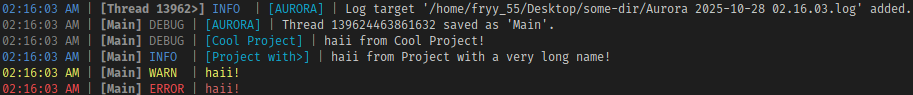
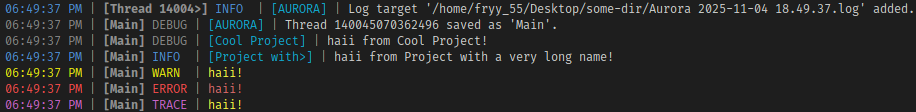
Add a custom logging level (v1.1.0)

Changed region(s): [[0.0, 0.0211, 1.0, 0.8421], [0.0, 0.8632, 0.276, 1.0]]

diff --git a/include/aurora/log.hpp b/include/aurora/log.hpp
@@ -2,8 +2,8 @@
 
 #include <aurora/singletons/TargetManager.hpp>
 
-#include <iostream>
 #include <print>
+#include <iostream>
 #include <regex>
 #include <fstream>
 
@@ -127,6 +127,8 @@ private:
 // Logging functions
 private:
 	using LogStates = std::pair<bool, bool>;
+	static LogStates statesForLevel(LogLevel logLevel) noexcept;
+	#define IMPL_CHECK_STATES(_logLevel) if (auto states = statesForLevel((_logLevel)); states.first || states.second)
 
 public:
 	/**
@@ -136,16 +138,9 @@ public:
 	 * @param args Args to format with. Should match the number of fields in @p formatString
 	 */
 	template <typename ...Args>
-	static void debug(std::format_string<Args...> formatString, Args&&... args) noexcept {
-		LogStates states{};
-
-		if (s_logLevel == LogLevel::Debug)
-			states.first = true;
-		if (s_fileLogLevel == LogLevel::Debug)
-			states.second = true;
-
-		if (states.first || states.second)
-			log_impl(states, LogLevel::Debug, formatString, std::forward<Args>(args)...);
+	static void debug(std::format_string<Args...> const& formatString, Args&&... args) noexcept {
+		IMPL_CHECK_STATES(LogLevel::Debug)
+			log_impl(std::nullopt, states, LogLevel::Debug, formatString, std::forward<Args>(args)...);
 
 		return;
 	}
@@ -156,16 +151,9 @@ public:
 	 * @param args Args to format with. Should match the number of fields in @p formatString
 	 */
 	template <typename ...Args>
-	static void info(std::format_string<Args...> formatString, Args&&... args) noexcept {
-		LogStates states{};
-
-		if (s_logLevel == LogLevel::Debug || s_logLevel == LogLevel::Info)
-			states.first = true;
-		if (s_fileLogLevel == LogLevel::Debug || s_fileLogLevel == LogLevel::Info)
-			states.second = true;
-
-		if (states.first || states.second)
-			log_impl(states, LogLevel::Info, formatString, std::forward<Args>(args)...);
+	static void info(std::format_string<Args...> const& formatString, Args&&... args) noexcept {
+		IMPL_CHECK_STATES(LogLevel::Info)
+			log_impl(std::nullopt, states, LogLevel::Info, formatString, std::forward<Args>(args)...);
 
 		return;
 	}
@@ -176,16 +164,9 @@ public:
 	 * @param args Args to format with. Should match the number of fields in @p formatString
 	 */
 	template <typename ...Args>
-	static void warn(std::format_string<Args...> formatString, Args&&... args) noexcept {
-		LogStates states{};
-
-		if (s_logLevel != LogLevel::Error)
-			states.first = true;
-		if (s_fileLogLevel != LogLevel::Error)
-			states.second = true;
-
-		if (states.first || states.second)
-			log_impl(states, LogLevel::Warn, formatString, std::forward<Args>(args)...);
+	static void warn(std::format_string<Args...> const& formatString, Args&&... args) noexcept {
+		IMPL_CHECK_STATES(LogLevel::Warn)
+			log_impl(std::nullopt, states, LogLevel::Warn, formatString, std::forward<Args>(args)...);
 
 		return;
 	}
@@ -196,21 +177,78 @@ public:
 	 * @param args Args to format with. Should match the number of fields in @p formatString
 	 */
 	template <typename ...Args>
-	static void error(std::format_string<Args...> formatString, Args&&... args) noexcept {
-		log_impl({ true, true }, LogLevel::Error, formatString, std::forward<Args>(args)...);
+	static void error(std::format_string<Args...> const& formatString, Args&&... args) noexcept {
+		IMPL_CHECK_STATES(LogLevel::Error)
+			log_impl(std::nullopt, states, LogLevel::Error, formatString, std::forward<Args>(args)...);
+
+		return;
+	}
+
+	/**
+	 * @brief A configuration structure for customizing a log level
+	 * 
+	 */
+	struct CustomLogLevelConfig final {
+		using ANSITag = std::variant<LogLevel, std::string_view>;
+
+		/**
+		 * @brief Log level, which this log should follow
+		 *
+		 * @details For example, setting this to `LogLevel::Info` will log only when info logs are logged
+		 * 
+		 */
+		LogLevel logLevel;
+		/**
+		 * @brief The name of a custom log level (e.g. `TRACE`)
+		 *
+		 * @details Should preferably be 5 characters long for alignment with other levels, however this is not a hard limitation at all
+		 * 
+		 */
+		std::string_view logLevelName;
+		/**
+		 * @brief Head ANSI tag of the log that should be printed
+		 *
+		 * @details Can be either an enum of @ref aurora::log::LogLevel or a custom ANSI tag.
+		 * Custom tag strings are @em not parsed, so it can, in fact, be anything
+		 * 
+		 */
+		ANSITag headTag;
+		/**
+		 * @brief Body ANSI tag of the log that should be printed
+		 *
+		 * @details Can be either an enum of @ref aurora::log::LogLevel or a custom ANSI tag.
+		 * Custom tag strings are @em not parsed, so it can, in fact, be anything
+		 * 
+		 */
+		ANSITag bodyTag;
+	};
+	/**
+	 * @brief Logs at the custom level
+	 * 
+	 * @param config Config of the logging level (@see aurora::log::CustomLogLevelConfig)
+	 * @param formatString String to format against (e.g. `"Hello, my name is {}"`)
+	 * @param args Args to format with. Should match the number of fields in @p formatString
+	 */
+	template <typename ...Args>
+	static void custom(CustomLogLevelConfig const& config, std::format_string<Args...> const& formatString, Args&&... args) noexcept {
+		IMPL_CHECK_STATES(config.logLevel)
+			log_impl(config, states, LogLevel::Error, formatString, std::forward<Args>(args)...);
 
 		return;
 	}
 
 private:
+	using ConfigOpt = std::optional<std::reference_wrapper<CustomLogLevelConfig const>>;
 	template <typename ...Args>
 	static void log_impl(
+		ConfigOpt const& customConfig,
 		LogStates const& states,
 		LogLevel logLevel,
-		std::format_string<Args...> formatString,
+		std::format_string<Args...> const& formatString,
 		Args&&... args
 	) noexcept {
 		auto string = logString(
+			customConfig,
 			logLevel,
 			std::format(formatString, std::forward<Args>(args)...)
 		);
@@ -233,6 +271,7 @@ private:
 	}
 
 	static std::string logString(
+		ConfigOpt const& customConfig,
 		LogLevel logLevel,
 		std::string&& formattedBody
 	) noexcept;

diff --git a/src/log.cpp b/src/log.cpp
@@ -18,32 +18,80 @@ std::uint8_t log::s_maxSourceLength = 12u;
 bool log::s_logToStderr = true;
 
 
-std::string log::logString(
-	log::LogLevel logLevel,
-	std::string&& formattedBody
-) noexcept {
-	char const* hTag;
+log::LogStates log::statesForLevel(LogLevel logLevel) noexcept {
+	LogStates ret{};
+
 	switch (logLevel) {
 		case LogLevel::Debug:
-			hTag = "\e[30m";
+			if (s_logLevel == LogLevel::Debug)
+				ret.first = true;
+			if (s_fileLogLevel == LogLevel::Debug)
+				ret.second = true;
 			break;
 
 		case LogLevel::Info:
-			hTag = "\e[34m";
+			if (s_logLevel == LogLevel::Debug || s_logLevel == LogLevel::Info)
+				ret.first = true;
+			if (s_fileLogLevel == LogLevel::Debug || s_fileLogLevel == LogLevel::Info)
+				ret.second = true;
 			break;
 
 		case LogLevel::Warn:
-			hTag = "\e[33m";
+			if (s_logLevel != LogLevel::Error)
+				ret.first = true;
+			if (s_fileLogLevel != LogLevel::Error)
+				ret.second = true;
 			break;
 
-		case LogLevel::Error:
-			hTag = "\e[91m";
-			break;
-
+		case LogLevel::Error: [[fallthrough]];
 		default:
-			hTag = "\e[0m";
-			break;
+			ret = { true, true };
 	}
+
+	return ret;
+}
+
+std::string log::logString(
+	ConfigOpt const& customConfig,
+	log::LogLevel logLevel,
+	std::string&& formattedBody
+) noexcept {
+	constexpr auto hasLogLevel = [](CustomLogLevelConfig::ANSITag const& ansiTag) noexcept {
+		return std::holds_alternative<LogLevel>(ansiTag);
+	};
+	constexpr auto getLogLevel = [](CustomLogLevelConfig::ANSITag const& ansiTag) noexcept {
+		return std::get<LogLevel>(ansiTag);
+	};
+	constexpr auto getANSIString = [](CustomLogLevelConfig::ANSITag const& ansiTag) noexcept {
+		return std::get<std::string_view>(ansiTag);
+	};
+
+	auto hTag = [&logLevel, &customConfig, &hasLogLevel, &getLogLevel, &getANSIString]() -> std::string_view {
+		if (!customConfig || hasLogLevel(customConfig->get().headTag)) {
+			if (customConfig && hasLogLevel(customConfig->get().headTag))
+				logLevel = getLogLevel(customConfig->get().headTag);
+
+			switch (logLevel) {
+				case LogLevel::Debug:
+					return "\e[30m";
+
+				case LogLevel::Info:
+					return "\e[34m";
+
+				case LogLevel::Warn:
+					return "\e[33m";
+
+				case LogLevel::Error:
+					return "\e[91m";
+
+				default:
+					return "\e[0m";
+			}
+		}
+
+		// control gets here if a config is present and it's set to a custom tag
+		return getANSIString(customConfig->get().headTag);
+	}();
 
 	// check for a source
 	bool source = false;
@@ -86,7 +134,10 @@ std::string log::logString(
 			);
 		}(),
 		hTag, // h tag
-		[logLevel]() { // log level
+		[logLevel, &customConfig]() -> std::string_view { // log level
+			if (customConfig)
+				return customConfig->get().logLevelName;
+
 			switch (logLevel) {
 				case LogLevel::Debug:
 					return "DEBUG";
@@ -101,26 +152,34 @@ std::string log::logString(
 					return "ERROR";
 
 				default:
-					return "BLANK";
+					return "_____";
 			}
 		}(),
 		source ? // optional source specifier
 			std::format("\e[0;36m [{}]\e[90m |", limitStr(matches[1].str()))
 			:
 			"",
-		[logLevel]() { // b tag
-			switch (logLevel) {
-				case LogLevel::Warn:
-					return "\e[93m";
+		[&logLevel, &customConfig, &hasLogLevel, &getLogLevel, &getANSIString]() -> std::string_view { // b tag
+			if (!customConfig || hasLogLevel(customConfig->get().bodyTag)) {
+				if (customConfig && hasLogLevel(customConfig->get().bodyTag))
+					logLevel = getLogLevel(customConfig->get().bodyTag);
 
-				case LogLevel::Error:
-					return "\e[31m";
+				switch (logLevel) {
+					case LogLevel::Warn:
+						return "\e[93m";
 
-				case LogLevel::Debug: [[fallthrough]];
-				case LogLevel::Info: [[fallthrough]];
-				default:
-					return "\e[0m";
+					case LogLevel::Error:
+						return "\e[31m";
+
+					case LogLevel::Debug: [[fallthrough]];
+					case LogLevel::Info: [[fallthrough]];
+					default:
+						return "\e[0m";
+				}
 			}
+
+			// control gets here if a config is present and it's set to a custom tag
+			return getANSIString(customConfig->get().bodyTag);
 		}(),
 		source ? // body
 			matches[2].str()

diff --git a/README.md b/README.md
@@ -23,6 +23,15 @@ int main() {
 	log::info("[Project with a very long name] haii from Project with a very long name!");
 	log::warn("haii!");
 	log::error("haii!");
+	log::custom(
+		{
+			.logLevel=log::LogLevel::Debug,
+			.logLevelName="TRACE",
+			.headTag="\e[35m",
+			.bodyTag=log::LogLevel::Warn
+		},
+		"haii!"
+	);
 
 	return 0;
 }
@@ -34,9 +43,9 @@ int main() {
 
 # Features
 - `aurora::log`
-	- ANSI supported logging to 4 different levels (`aurora::log::debug`, `aurora::log::info`, `aurora::log::warn`, `aurora::log::error`)
+	- ANSI supported logging to 4 default different levels (`aurora::log::debug`, `aurora::log::info`, `aurora::log::warn`, `aurora::log::error`) + a fully customizable level (`aurora::log::custom`)
 	- Custom log source specification (e.g. `aurora::log::debug("[AURORA] Hello from Aurora!")` -> `...] DEBUG | [AURORA] | Hello from Aurora!`)
-	- An ability to configure some of the logging aspects
+	- Configuration of some of the logging aspects
 - `aurora::ThreadManager`
 	- An ability to add names to threads for better readability in logs
 - `aurora::TargetManager` **(NOTE: on some systems Aurora's file access failure reasons may not be accurate!)**

diff --git a/SECURITY.md b/SECURITY.md
@@ -3,6 +3,7 @@
 ## Supported Versions
 | Version | Supported          |
 | ------- | ------------------ |
+| 1.1.0   | :white_check_mark: |
 | 1.0.2   | :white_check_mark: |
 | 1.0.1   | :white_check_mark: |
 | 1.0.0   | :white_check_mark: |
